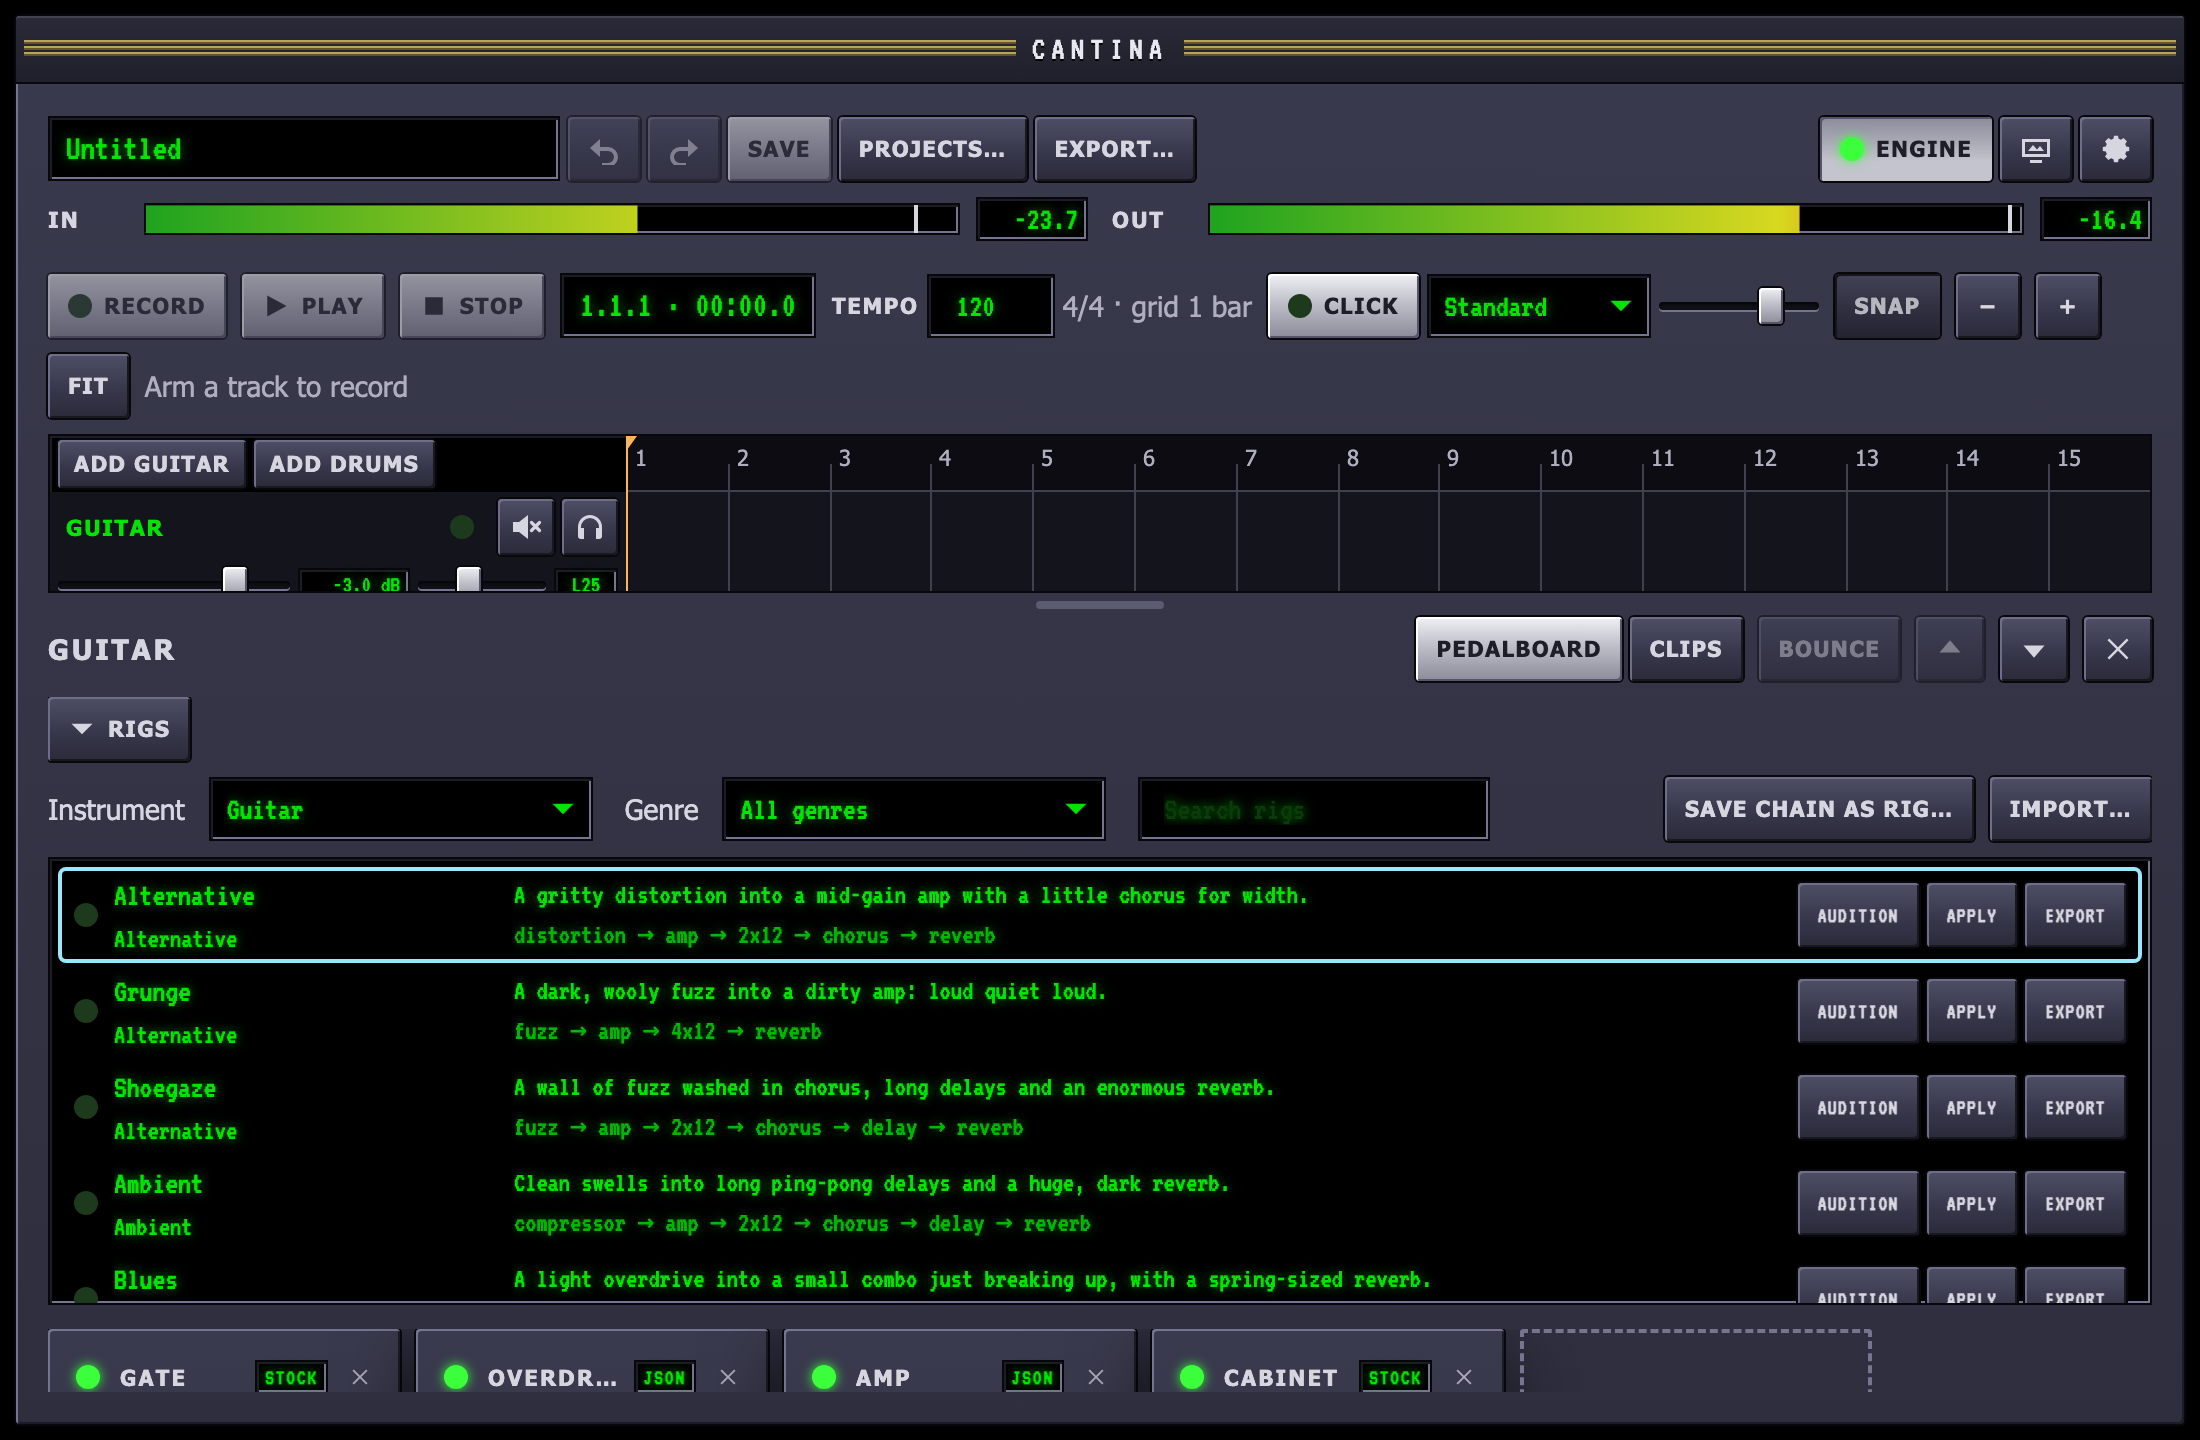
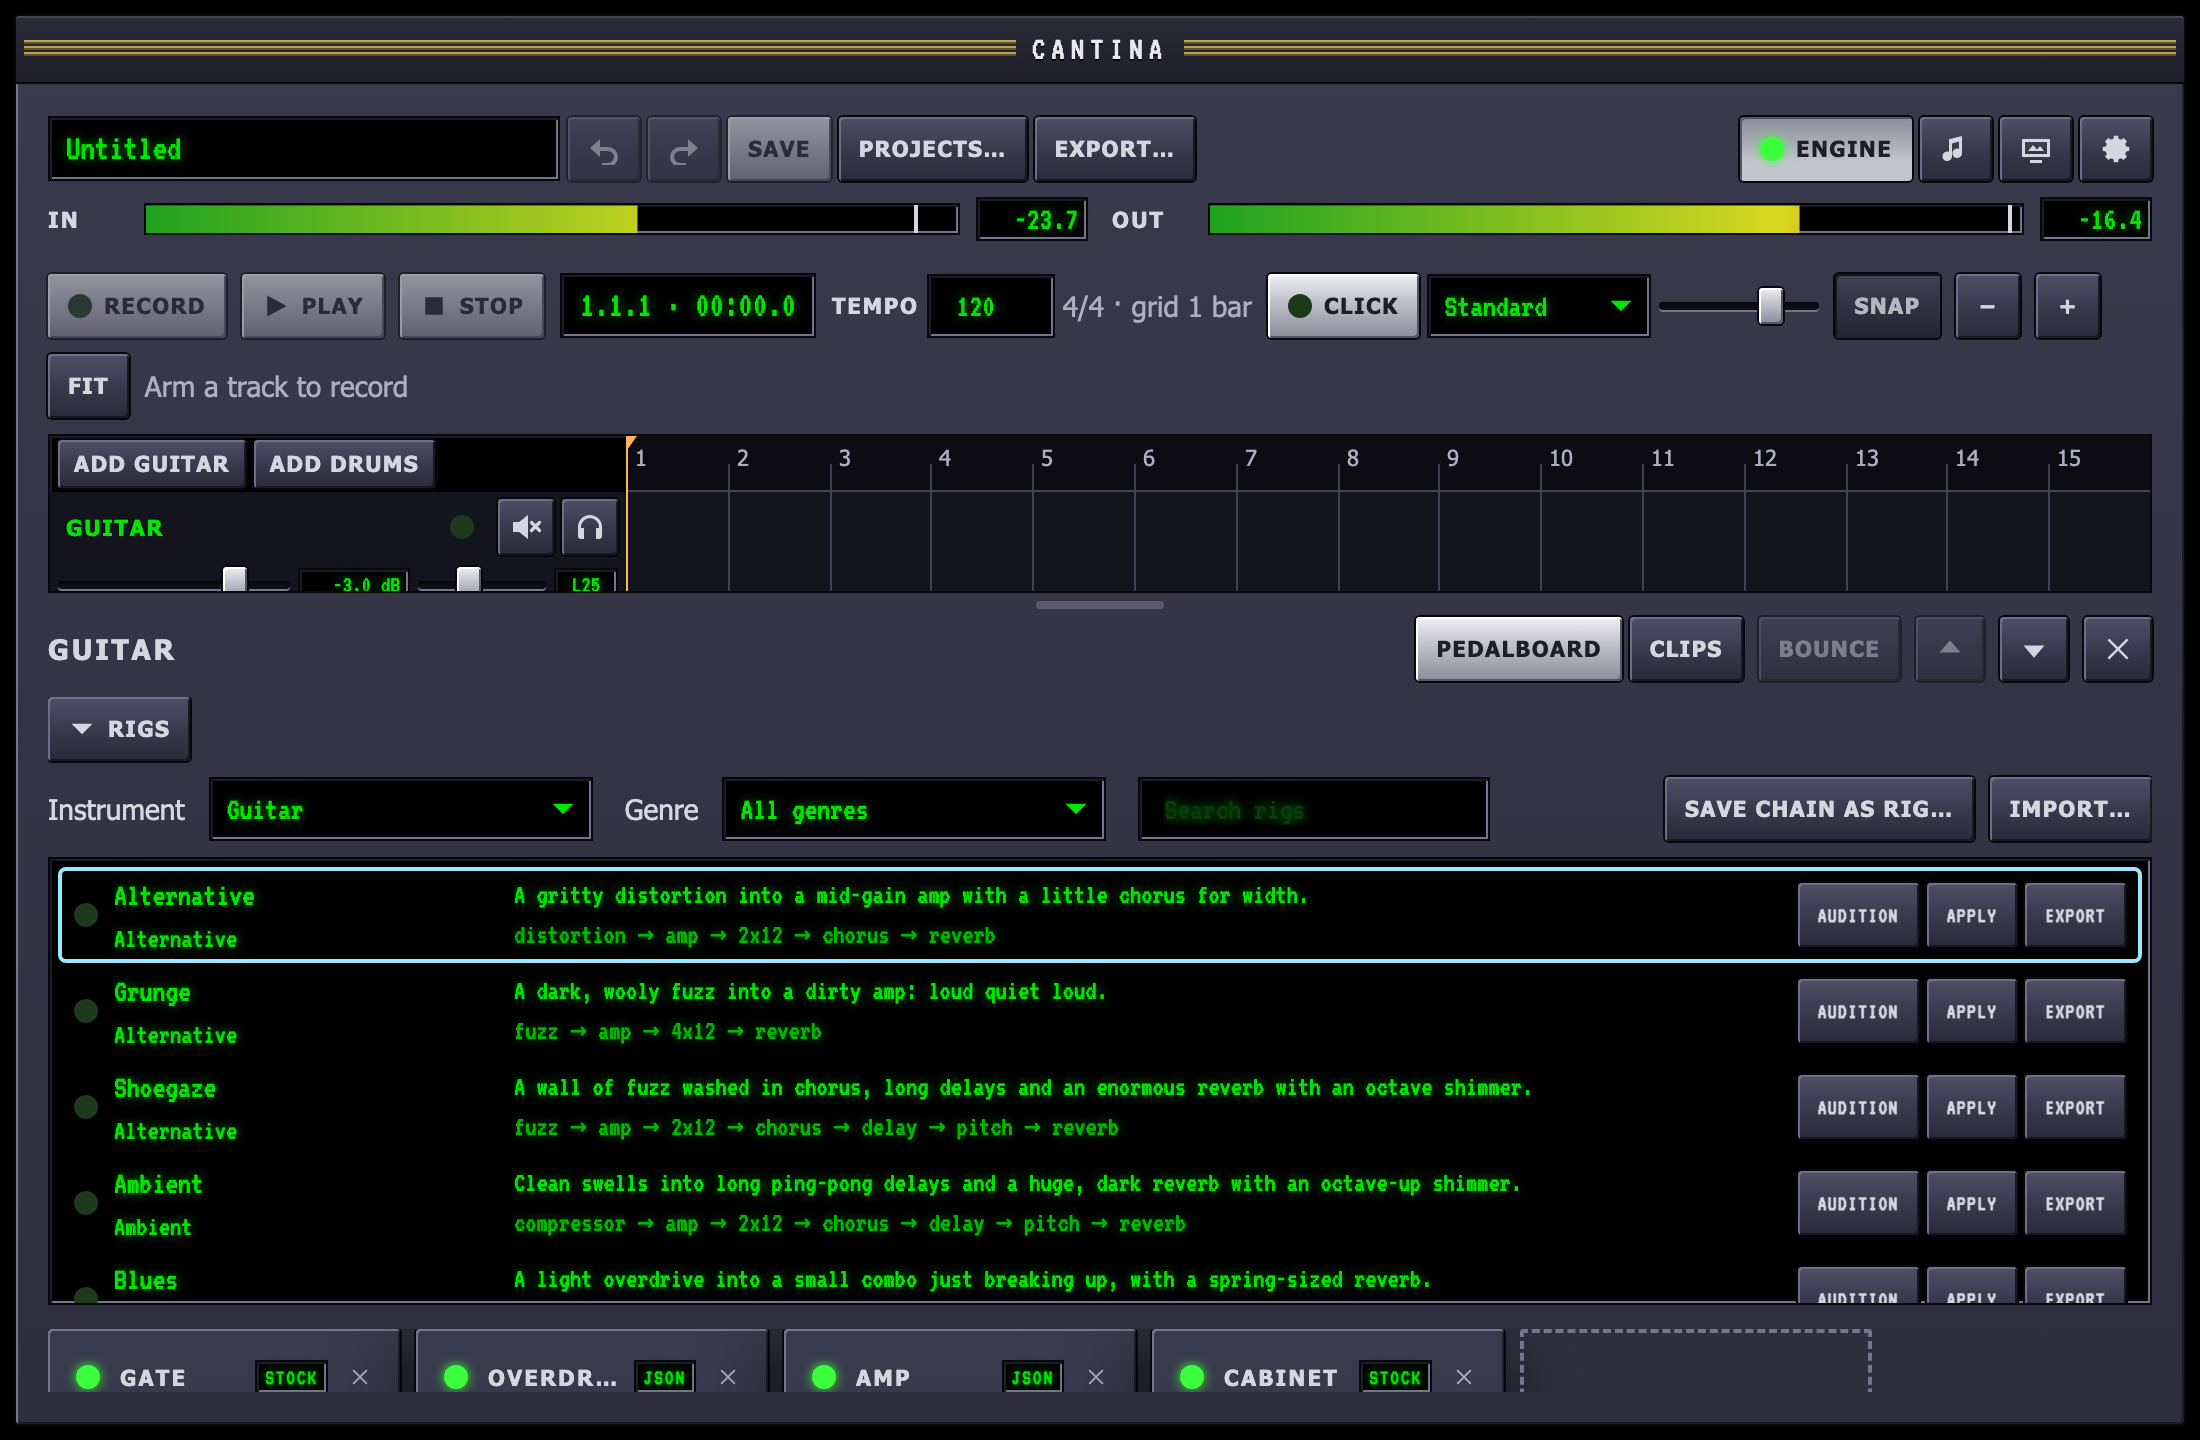
docs: the pitch pedal and drive blend in the README, home page and screenshots (#260)
The README's and the docs home's stock pedal lists name the octaver and
pitch shifter and the drives' blend; the pedal picker and rig picker
screenshots are retaken with Pitch and the new Shoegaze and Ambient
chains.

Claude-Session: https://claude.ai/code/session_01Weyxkote2xscWSN2LNQZGG

diff --git a/README.md b/README.md
@@ -35,7 +35,8 @@ file, so you or a coding agent can write one and the app picks it up.
   tweak pedals while you play; every parameter is smoothed so nothing
   clicks.
 - **Stock pedals.** Tuner, noise gate, compressor, overdrive, distortion
-  and fuzz (oversampled), EQ, chorus, flanger, phaser, tremolo, tempo-synced
+  and fuzz (oversampled, with a blend for the clean signal), EQ, chorus,
+  flanger, phaser, tremolo, an octaver and pitch shifter, tempo-synced
   delay, reverb, and an amp and cabinet with a starter set of impulse
   responses.
 - **Multitrack recording.** Tracks and clips on a timeline: record, move,

diff --git a/docs/src/content/docs/guides/getting-started.md b/docs/src/content/docs/guides/getting-started.md
@@ -138,7 +138,7 @@ To build a chain yourself, the dashed
 pedals you have designed, and the Audio Unit and CLAP plugins installed on
 your Mac.
 
-![The pedal picker, with the stock pedals and the installed plugins](../../../assets/guides/picker.png)
+![The pedal picker: the stock pedals, with the installed plugins further down the list](../../../assets/guides/picker.png)
 
 Pick one and it is added to the end of the chain, already playing. Drag the
 knobs while you play. **×** on a pedal removes it, and every change can be
